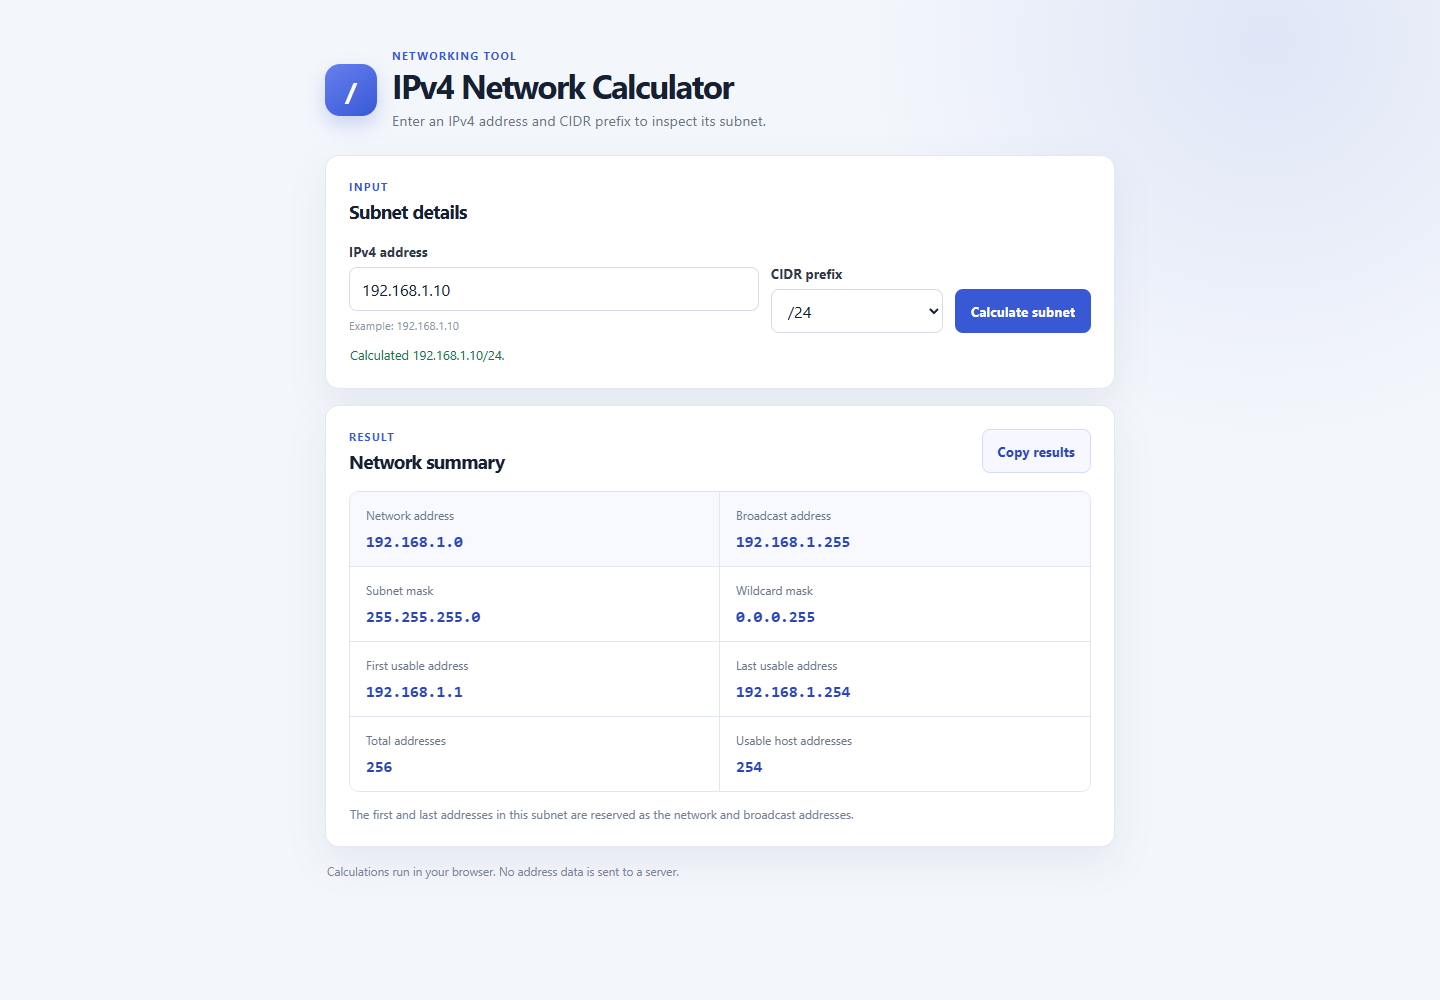
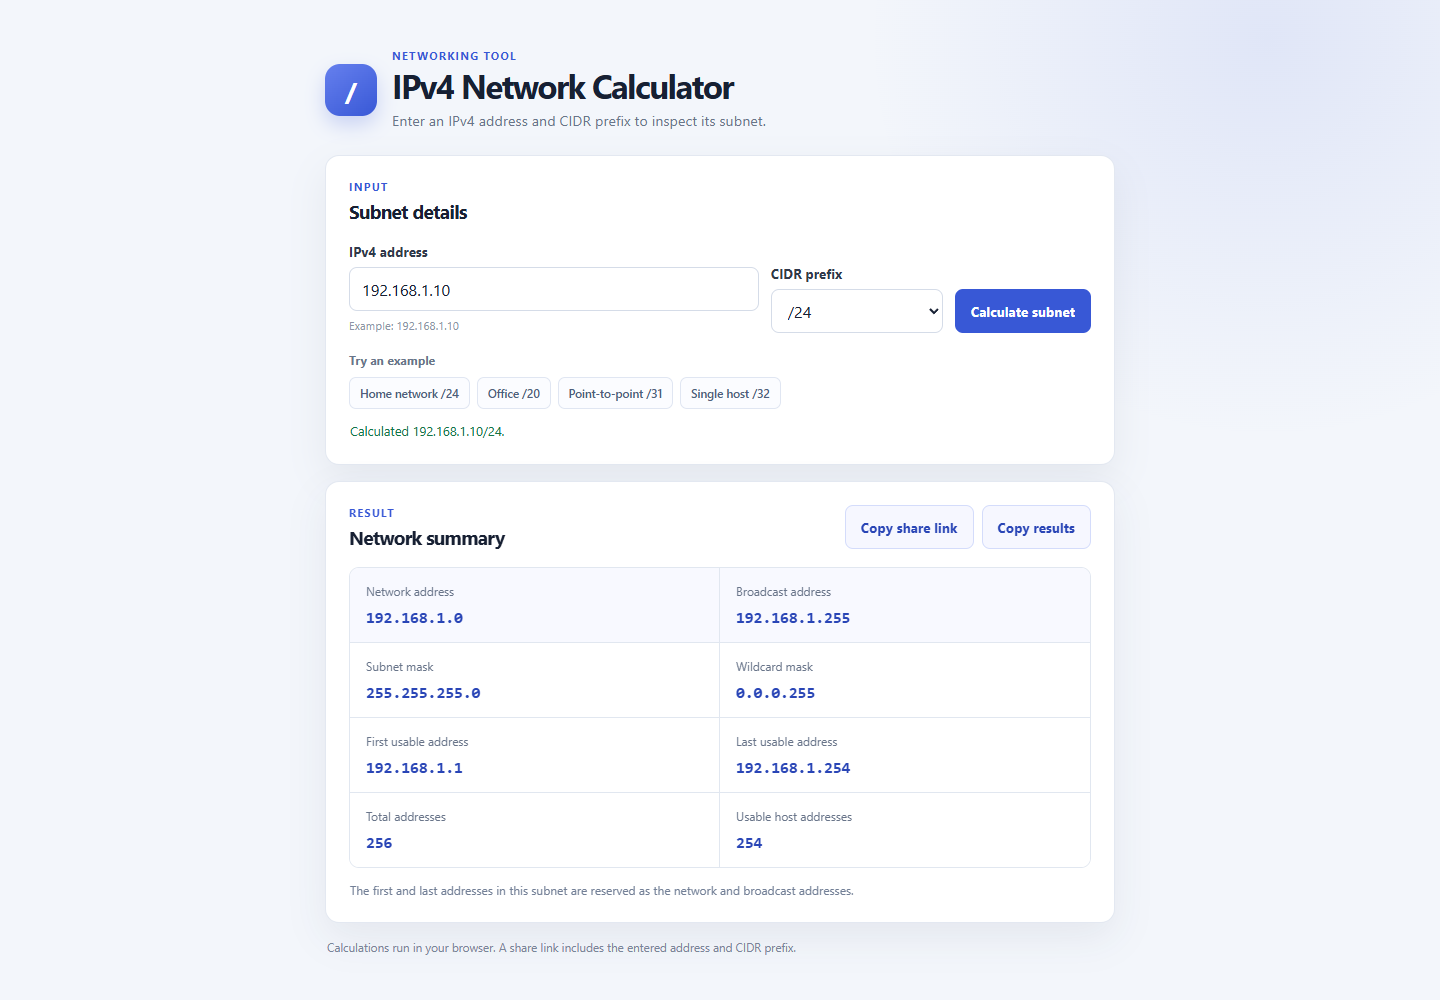
Add reusable subnet examples and shareable results

diff --git a/script.js b/script.js
@@ -6,8 +6,18 @@ const resultsSection = document.getElementById("resultsSection");
 const resultList = document.getElementById("resultList");
 const subnetNote = document.getElementById("subnetNote");
 const copyButton = document.getElementById("copyButton");
+const shareButton = document.getElementById("shareButton");
+const exampleButtons = document.querySelectorAll("button[data-example]");
 
 let currentResults = [];
+
+const sharedParameters = new URLSearchParams(window.location.search);
+const sharedAddress = sharedParameters.get("ip");
+const sharedPrefix = sharedParameters.get("prefix");
+if (sharedAddress) ipInput.value = sharedAddress;
+if (/^(?:[0-9]|[12]\d|3[0-2])$/.test(sharedPrefix ?? "")) {
+    cidrInput.value = sharedPrefix;
+}
 
 function parseIPv4(value) {
     const octets = value.split(".");
@@ -110,13 +120,28 @@ calculatorForm.addEventListener("submit", (event) => {
         message.className = "message is-error";
         resultsSection.hidden = true;
         copyButton.disabled = true;
+        shareButton.disabled = true;
         return;
     }
 
     message.textContent = `Calculated ${address}/${prefix}.`;
     message.className = "message is-success";
     copyButton.disabled = false;
+    shareButton.disabled = false;
     renderResults(result.values, result.note);
+
+    const shareUrl = new URL(window.location.href);
+    shareUrl.searchParams.set("ip", address);
+    shareUrl.searchParams.set("prefix", String(prefix));
+    window.history.replaceState(window.history.state, "", shareUrl);
+});
+
+exampleButtons.forEach((button) => {
+    button.addEventListener("click", () => {
+        ipInput.value = button.dataset.ip ?? "";
+        cidrInput.value = button.dataset.prefix ?? "24";
+        calculatorForm.requestSubmit();
+    });
 });
 
 copyButton.addEventListener("click", async () => {
@@ -129,6 +154,19 @@ copyButton.addEventListener("click", async () => {
         message.className = "message is-success";
     } catch {
         message.textContent = "Clipboard access is unavailable in this browser. Select the results to copy them.";
+        message.className = "message is-error";
+    }
+});
+
+shareButton.addEventListener("click", async () => {
+    if (currentResults.length === 0) return;
+
+    try {
+        await navigator.clipboard.writeText(window.location.href);
+        message.textContent = "Share link copied. Anyone with the link can open this calculation.";
+        message.className = "message is-success";
+    } catch {
+        message.textContent = "Clipboard access is unavailable. You can copy the shareable URL from the address bar.";
         message.className = "message is-error";
     }
 });

diff --git a/index.html b/index.html
@@ -76,6 +76,15 @@
 
                 <button class="button button-primary" type="submit">Calculate subnet</button>
             </form>
+            <div class="quick-examples" aria-label="Example subnet calculations">
+                <span class="quick-examples-label">Try an example</span>
+                <div class="example-buttons">
+                    <button class="example-button" type="button" data-example data-ip="192.168.1.10" data-prefix="24">Home network /24</button>
+                    <button class="example-button" type="button" data-example data-ip="172.16.5.10" data-prefix="20">Office /20</button>
+                    <button class="example-button" type="button" data-example data-ip="10.10.10.10" data-prefix="31">Point-to-point /31</button>
+                    <button class="example-button" type="button" data-example data-ip="203.0.113.7" data-prefix="32">Single host /32</button>
+                </div>
+            </div>
             <p id="message" class="message" role="status" aria-live="polite"></p>
         </section>
 
@@ -87,7 +96,10 @@
                         <h2 id="resultsHeading">Network summary</h2>
                     </div>
                 </div>
-                <button id="copyButton" class="button button-secondary" type="button">Copy results</button>
+                <div class="result-actions">
+                    <button id="shareButton" class="button button-secondary" type="button">Copy share link</button>
+                    <button id="copyButton" class="button button-secondary" type="button">Copy results</button>
+                </div>
             </div>
 
             <dl id="resultList" class="result-list"></dl>
@@ -95,7 +107,7 @@
         </section>
 
         <footer class="page-footer">
-            <p>Calculations run in your browser. No address data is sent to a server.</p>
+            <p>Calculations run in your browser. A share link includes the entered address and CIDR prefix.</p>
         </footer>
     </main>
 </body>

diff --git a/style.css b/style.css
@@ -150,6 +150,47 @@ p {
     font-size: 0.71rem;
 }
 
+.quick-examples {
+    display: grid;
+    gap: 9px;
+    margin-top: 19px;
+}
+
+.quick-examples-label {
+    color: var(--muted);
+    font-size: 0.75rem;
+    font-weight: 650;
+}
+
+.example-buttons {
+    display: flex;
+    flex-wrap: wrap;
+    gap: 7px;
+}
+
+.example-button {
+    min-height: 32px;
+    padding: 0 10px;
+    border: 1px solid #e0e6f2;
+    border-radius: 7px;
+    color: #4e5e7b;
+    background: #fbfcff;
+    font-size: 0.72rem;
+    font-weight: 600;
+    transition: background-color 140ms ease, border-color 140ms ease;
+}
+
+.example-button:hover {
+    border-color: #b6c4f2;
+    color: var(--blue-dark);
+    background: #f3f5ff;
+}
+
+.example-button:focus-visible {
+    outline: 3px solid rgba(56, 88, 214, 0.23);
+    outline-offset: 2px;
+}
+
 .button {
     min-height: 44px;
     padding: 0 15px;
@@ -212,6 +253,13 @@ p {
     justify-content: space-between;
     gap: 15px;
     margin-bottom: 17px;
+}
+
+.result-actions {
+    display: flex;
+    flex-wrap: wrap;
+    justify-content: flex-end;
+    gap: 8px;
 }
 
 .result-list {

diff --git a/README.md b/README.md
@@ -11,7 +11,8 @@ A browser-based subnet calculator. Enter an IPv4 address and CIDR prefix to see 
 - Validate IPv4 octets and calculate prefixes from `/0` through `/32`.
 - Display subnet endpoints, subnet and wildcard masks, and the usable address range.
 - Handle `/31` point-to-point networks and `/32` host routes explicitly.
-- Copy the calculated values with one click.
+- Try common subnet examples without typing an address and prefix.
+- Copy the calculated values or a shareable link that restores the same calculation.
 - Use the responsive layout on desktop and mobile screens.
 
 ## Run locally
@@ -24,6 +25,8 @@ No package installation, build step, or server-side code is required.
 ## Calculation notes
 
 For prefixes from `/0` to `/30`, the network and broadcast addresses are excluded from the usable host count. A `/31` has two usable addresses for point-to-point links, and a `/32` represents one host address.
+
+Share links keep the IPv4 address and CIDR prefix in the URL query string. Calculations run in the browser and do not call an external API.
 
 ## Project files
 
